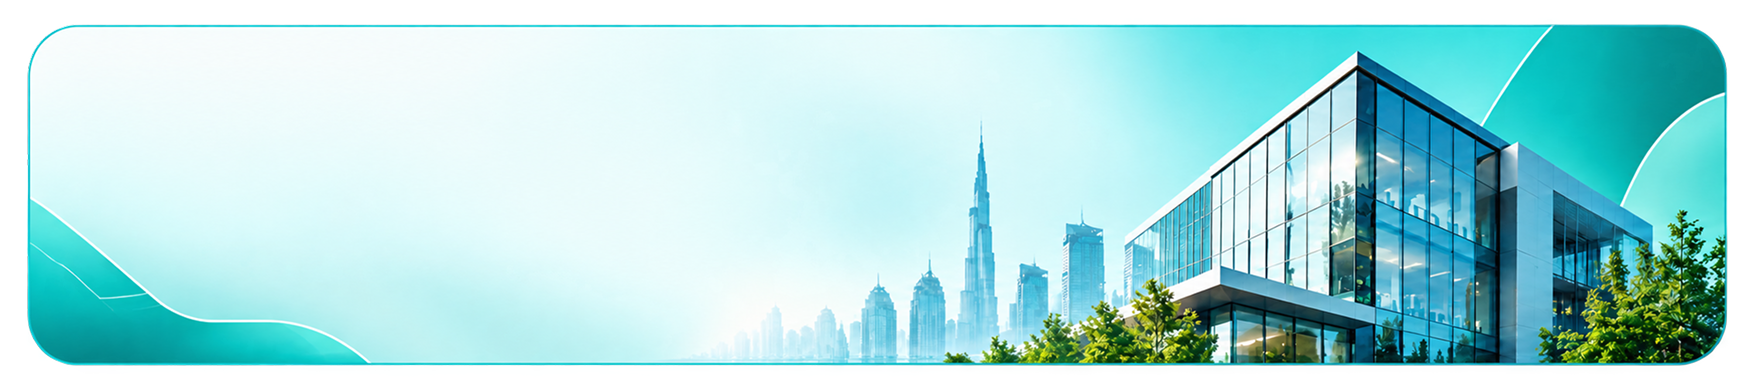
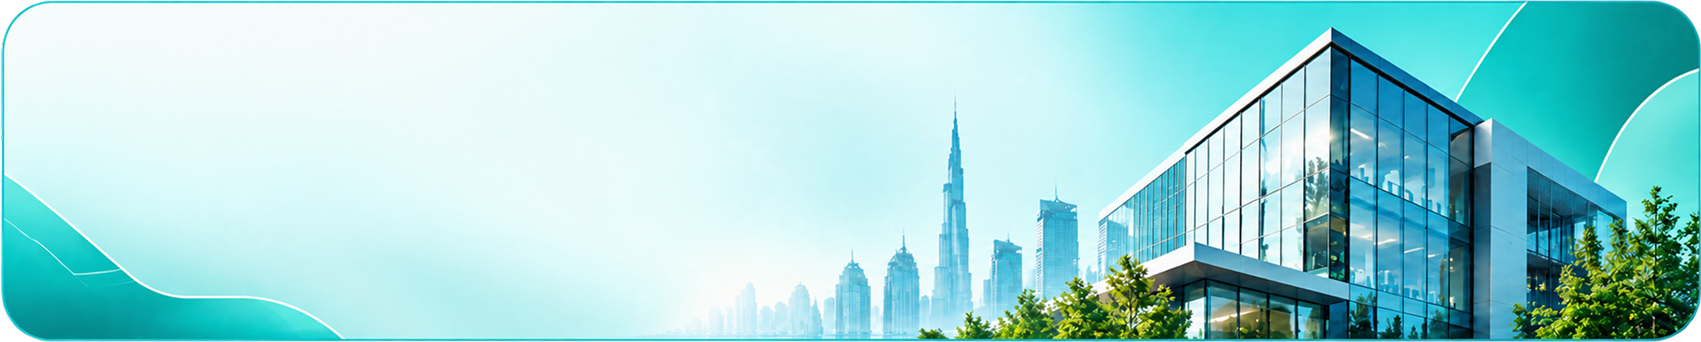
media video

diff --git a/app/media/page.tsx b/app/media/page.tsx
@@ -60,10 +60,11 @@ const PHOTO_CATEGORIES = [
 
 const VIDEO_CATEGORIES = [
   { id: "all", labelEn: "ALL", labelAr: "الكل" },
-  { id: "site", labelEn: "SITE APPLICATION", labelAr: "تنفيذ ميداني" },
-  { id: "flood", labelEn: "WATER FLOOD TEST", labelAr: "اختبار الغمر" },
-  { id: "inspection", labelEn: "QUALITY INSPECTION", labelAr: "فحص الجودة" },
-  { id: "tanking", labelEn: "BASEMENT TANKING", labelAr: "عزل الأساسات" },
+  { id: "construction", labelEn: "CONSTRUCTION", labelAr: "الإنشاءات" },
+  { id: "industrial", labelEn: "INDUSTRIAL", labelAr: "الصناعي" },
+  { id: "hospitality", labelEn: "HOSPITALITY", labelAr: "الضيافة" },
+  { id: "commercial", labelEn: "COMMERCIAL", labelAr: "التجاري" },
+  { id: "infrastructure", labelEn: "INFRASTRUCTURE", labelAr: "البنية التحتية" },
 ];
 
 const PHOTO_CAT_MAP = [
@@ -75,10 +76,11 @@ const PHOTO_CAT_MAP = [
 ];
 
 const VIDEO_CAT_MAP = [
-  { key: "site", labelEn: "Site Application", labelAr: "تنفيذ ميداني" },
-  { key: "flood", labelEn: "Water Flood Test", labelAr: "اختبار الغمر المائي" },
-  { key: "inspection", labelEn: "Quality Inspection", labelAr: "فحص الجودة" },
-  { key: "tanking", labelEn: "Basement Tanking", labelAr: "عزل الأساسات" },
+  { key: "construction", labelEn: "Construction", labelAr: "الإنشاءات" },
+  { key: "industrial", labelEn: "Industrial", labelAr: "الصناعي" },
+  { key: "hospitality", labelEn: "Hospitality", labelAr: "الضيافة" },
+  { key: "commercial", labelEn: "Commercial", labelAr: "التجاري" },
+  { key: "infrastructure", labelEn: "Infrastructure", labelAr: "البنية التحتية" },
 ];
 
 const LOCATIONS = [
@@ -91,7 +93,7 @@ const LOCATIONS = [
 ];
 
 const PHOTOS_PER_PAGE = 12;
-const VIDEOS_PER_PAGE = 8;
+const VIDEOS_PER_PAGE = 12;
 
 export default function MediaPage() {
   const { isArabic } = useLanguage();
@@ -105,7 +107,7 @@ export default function MediaPage() {
   const [visiblePhotoCount, setVisiblePhotoCount] = useState<number>(12);
 
   const [selectedVideoCategory, setSelectedVideoCategory] = useState<string>("all");
-  const [visibleVideoCount, setVisibleVideoCount] = useState<number>(8);
+  const [visibleVideoCount, setVisibleVideoCount] = useState<number>(12);
   const [currentVideoPage, setCurrentVideoPage] = useState<number>(1);
 
   // Modals
@@ -135,7 +137,7 @@ export default function MediaPage() {
         });
 
         const mappedVideos: VideoItem[] = videos.map((src, i) => {
-          const cat = VIDEO_CAT_MAP[i % VIDEO_CAT_MAP.length];
+          const cat = PHOTO_CAT_MAP[i % PHOTO_CAT_MAP.length];
           return {
             id: 1 + i,
             type: "video",
@@ -147,8 +149,8 @@ export default function MediaPage() {
             titleEn: "Project Name",
             titleAr: "اسم المشروع",
             duration: "0:45",
-            locationEn: "Dubai, UAE",
-            locationAr: "دبي، الإمارات",
+            locationEn: "Commercial",
+            locationAr: "تجاري",
           };
         });
 
@@ -174,14 +176,9 @@ export default function MediaPage() {
     return videoItems.filter((v) => v.category === selectedVideoCategory);
   }, [videoItems, selectedVideoCategory]);
 
-  const totalVideoPages = useMemo(() => {
-    return Math.max(1, Math.ceil(filteredVideos.length / VIDEOS_PER_PAGE));
-  }, [filteredVideos]);
-
-  const paginatedVideos = useMemo(() => {
-    const start = (currentVideoPage - 1) * VIDEOS_PER_PAGE;
-    return filteredVideos.slice(start, start + VIDEOS_PER_PAGE);
-  }, [filteredVideos, currentVideoPage]);
+  const displayedVideos = useMemo(() => {
+    return filteredVideos.slice(0, visibleVideoCount);
+  }, [filteredVideos, visibleVideoCount]);
 
   // ── Lightbox Navigation ──────────────────────────────────────
   const handleOpenPhoto = (photo: PhotoItem) => {
@@ -451,71 +448,84 @@ export default function MediaPage() {
 
       {/* ══════════════════════════════════════════════════════════════
           3. SECTION: PROJECT STORIES IN MOTION (VIDEO GALLERY)
+          (Exact match to design screenshot)
       ══════════════════════════════════════════════════════════════ */}
-      <section className="relative w-full py-16 sm:py-20 lg:py-24 bg-white border-t border-slate-100">
+      <section className="relative w-full py-14 sm:py-16 md:py-20 bg-white border-t border-slate-100">
         <div className="max-w-[1360px] mx-auto px-4 sm:px-6 lg:px-8 xl:px-12 w-full">
-          {/* Section Header */}
-          <div className="text-center max-w-3xl mx-auto mb-10 sm:mb-12">
-            <div className="inline-flex items-center justify-center gap-3 mb-2.5">
-              <span className="inline-block h-[2px] w-6 sm:w-8 bg-[#00c4b4] rounded-full" />
-              <span className="text-xs sm:text-sm font-extrabold tracking-[0.2em] uppercase text-[#00c4b4]">
-                {isArabic ? "فيديوهات المشاريع" : "PROJECT STORIES"}
+          {/* Section Header (Left-Aligned as per design) */}
+          <div className="max-w-3xl mb-8 sm:mb-10 text-left rtl:text-right">
+            {/* Tagline: — VIDEO GALLERY */}
+            <div className="flex items-center gap-2 mb-2 sm:mb-2.5">
+              <span className="w-5 sm:w-6 h-[2px] bg-[#00c4b4] inline-block" />
+              <span className="text-[11px] sm:text-xs font-black tracking-[0.2em] uppercase text-[#00c4b4]">
+                {isArabic ? "معرض الفيديو" : "VIDEO GALLERY"}
               </span>
-              <span className="inline-block h-[2px] w-6 sm:w-8 bg-[#00c4b4] rounded-full" />
             </div>
 
-            <h2 className="text-3xl sm:text-4xl md:text-[44px] font-black text-[#0B1C24] tracking-tight leading-[1.15]">
+            {/* Title: Project Stories In Motion */}
+            <h2 className="text-3xl sm:text-4xl md:text-[46px] font-black text-[#0B1C24] tracking-tight leading-[1.14]">
               {isArabic ? (
                 <>
                   قصص المشاريع <span className="text-[#00c4b4]">بالفيديو</span>
                 </>
               ) : (
                 <>
-                  Project Stories in <span className="text-[#00c4b4]">Motion</span>
+                  Project Stories In <span className="text-[#00c4b4]">Motion</span>
                 </>
               )}
             </h2>
 
-            <p className="mt-3 text-stone-600 text-xs sm:text-sm md:text-base max-w-xl mx-auto leading-relaxed">
+            {/* Subtitle exact text from design */}
+            <p className="mt-3 text-xs sm:text-sm md:text-[15px] text-stone-600 max-w-2xl leading-relaxed">
               {isArabic
-                ? "شاهد فرق العمل الهندسية أثناء تطبيق أنظمة العزل المعتمدة، اختبارات الغمر بالمياه، والفحص الدقيق في المواقع."
-                : "Watch our site engineering teams apply certified systems and conduct quality water flood tests in real-time."}
+                ? "استكشف مشاريعنا المكتملة واكتشف جودة التنفيذ والخبرة الهندسية وحلول العزل المائي المتميزة التي يقدمها فريقنا."
+                : "Explore our completed projects and discover the quality workmanship, expertise, and waterproofing solutions delivered by our team."}
             </p>
           </div>
 
-          {/* Video Category Filter Pills */}
-          <div className="flex items-center justify-center mb-10 overflow-x-auto pb-2 no-scrollbar">
-            <div className="inline-flex items-center gap-2 sm:gap-2.5 p-1.5 rounded-full bg-white border border-slate-200/90 shadow-sm">
-              {VIDEO_CATEGORIES.map((cat) => {
-                const isActive = selectedVideoCategory === cat.id;
-                return (
-                  <button
-                    key={cat.id}
-                    onClick={() => {
-                      setSelectedVideoCategory(cat.id);
-                      setCurrentVideoPage(1);
-                    }}
-                    className={`px-4 sm:px-5 py-2 rounded-full text-xs sm:text-sm font-bold tracking-wide transition-all duration-300 cursor-pointer whitespace-nowrap ${
-                      isActive
-                        ? "bg-[#00c4b4] text-white shadow-md shadow-[#00c4b4]/30 scale-100"
-                        : "text-slate-700 hover:text-[#00c4b4] hover:bg-slate-50"
-                    }`}
-                  >
-                    {isArabic ? cat.labelAr : cat.labelEn}
-                  </button>
-                );
-              })}
-            </div>
+          {/* Category Filter Pills (Left-Aligned as per design) */}
+          <div className="flex items-center gap-2.5 sm:gap-3 mb-10 overflow-x-auto pb-2 no-scrollbar">
+            {VIDEO_CATEGORIES.map((cat) => {
+              const isActive = selectedVideoCategory === cat.id;
+              return (
+                <button
+                  key={cat.id}
+                  onClick={() => {
+                    setSelectedVideoCategory(cat.id);
+                    setVisibleVideoCount(12);
+                  }}
+                  className={`px-6 py-2.5 rounded-full text-xs font-bold tracking-wider uppercase transition-all duration-200 cursor-pointer whitespace-nowrap ${
+                    isActive
+                      ? "bg-[#00a89a] text-white shadow-md shadow-[#00a89a]/30 scale-100"
+                      : "bg-[#EEF8F8] text-[#1E3A47] hover:text-[#00a89a] border border-[#d6eeee]/70 shadow-xs hover:border-[#00a89a]"
+                  }`}
+                >
+                  {isArabic ? cat.labelAr : cat.labelEn}
+                </button>
+              );
+            })}
           </div>
 
-          {/* 4-Column Video Grid with Centered Play Buttons */}
-          {!loading && paginatedVideos.length > 0 && (
+          {/* Loading Skeleton */}
+          {loading && (
             <div className="grid grid-cols-1 sm:grid-cols-2 md:grid-cols-3 lg:grid-cols-4 gap-5 sm:gap-6">
-              {paginatedVideos.map((video) => (
+              {Array.from({ length: 12 }).map((_, i) => (
+                <div
+                  key={i}
+                  className="aspect-[4/3] rounded-2xl bg-slate-100 animate-pulse border border-slate-200/60"
+                />
+              ))}
+            </div>
+          )}
+
+          {/* 4-Column Video Grid (Matching Reference Card Layout Exactly) */}
+          {!loading && displayedVideos.length > 0 && (
+            <div className="grid grid-cols-1 sm:grid-cols-2 md:grid-cols-3 lg:grid-cols-4 gap-5 sm:gap-6">
+              {displayedVideos.map((video) => (
                 <div
                   key={video.id}
                   onClick={() => setActiveVideo(video)}
-                  className="group relative rounded-2xl overflow-hidden aspect-[16/10] bg-black border border-slate-200/70 shadow-sm hover:shadow-2xl hover:-translate-y-1 transition-all duration-300 cursor-pointer"
+                  className="group relative rounded-2xl overflow-hidden aspect-[4/3] bg-slate-900 border border-slate-200/60 shadow-sm hover:shadow-xl hover:-translate-y-1 transition-all duration-300 cursor-pointer"
                 >
                   {/* HTML5 video frame preview */}
                   <video
@@ -526,30 +536,30 @@ export default function MediaPage() {
                     className="w-full h-full object-cover transition-transform duration-700 ease-out group-hover:scale-108"
                   />
 
-                  {/* Dark gradient overlay */}
-                  <div className="absolute inset-0 bg-gradient-to-t from-black/85 via-black/35 to-black/20 group-hover:via-black/25 transition-all" />
+                  {/* Gradient Overlay for bottom text visibility */}
+                  <div className="absolute inset-0 bg-gradient-to-t from-black/85 via-black/25 to-transparent opacity-90 group-hover:opacity-100 transition-opacity" />
 
-                  {/* Centered Glowing Teal Play Button */}
+                  {/* Center Sleek Circular Play Button (Matching Reference Card #2 & #7) */}
                   <div className="absolute inset-0 flex items-center justify-center pointer-events-none">
-                    <div className="w-13 h-13 sm:w-14 sm:h-14 rounded-full bg-[#00c4b4] text-white flex items-center justify-center shadow-[0_4px_24px_rgba(0,196,180,0.6)] group-hover:scale-115 group-hover:bg-[#00DDCF] transition-all duration-300 ring-4 ring-white/30">
-                      <Play className="w-5 h-5 fill-white ml-0.5" />
+                    <div className="w-11 h-11 rounded-full bg-black/45 backdrop-blur-md border border-white/40 text-white flex items-center justify-center shadow-lg group-hover:scale-115 group-hover:bg-[#00a89a] group-hover:border-[#00a89a] transition-all duration-300">
+                      <Play className="w-4 h-4 fill-white ml-0.5" />
                     </div>
                   </div>
 
-                  {/* Bottom Video Meta Bar */}
-                  <div className="absolute bottom-0 inset-x-0 p-4 z-10 text-white">
-                    <div className="flex items-center gap-1.5 mb-1">
-                      <Film className="w-3 h-3 text-[#00DDCF]" />
-                      <span className="text-[11px] font-bold text-[#00DDCF] tracking-wide uppercase">
-                        {isArabic ? video.categoryLabelAr : video.categoryLabelEn}
-                      </span>
+                  {/* Bottom-Left Meta Badge (Square Icon Box + Project Name + Commercial) */}
+                  <div className="absolute bottom-0 inset-x-0 p-3.5 sm:p-4 z-10 flex items-center gap-2.5 text-white">
+                    {/* Translucent Square Icon Box */}
+                    <div className="w-7 h-7 sm:w-8 sm:h-8 rounded-lg bg-black/50 backdrop-blur-md border border-white/20 flex items-center justify-center shrink-0 text-white">
+                      <Film className="w-3.5 h-3.5" />
                     </div>
-                    <h3 className="text-sm font-bold text-white line-clamp-1 group-hover:text-[#00DDCF] transition-colors">
-                      {isArabic ? video.titleAr : video.titleEn}
-                    </h3>
-                    <div className="flex items-center gap-1 text-[11px] text-white/70 mt-0.5 line-clamp-1">
-                      <MapPin className="w-3 h-3 text-white/50 shrink-0" />
-                      <span>{isArabic ? video.locationAr : video.locationEn}</span>
+                    {/* Project Title & Location */}
+                    <div className="leading-tight min-w-0">
+                      <h4 className="text-xs sm:text-[13px] font-bold text-white truncate group-hover:text-[#00DDCF] transition-colors">
+                        {isArabic ? video.titleAr : video.titleEn}
+                      </h4>
+                      <p className="text-[10px] sm:text-[11px] text-white/75 truncate mt-0.5">
+                        {isArabic ? video.locationAr : video.locationEn}
+                      </p>
                     </div>
                   </div>
                 </div>
@@ -558,7 +568,7 @@ export default function MediaPage() {
           )}
 
           {/* Empty State */}
-          {!loading && paginatedVideos.length === 0 && (
+          {!loading && displayedVideos.length === 0 && (
             <div className="text-center py-16 bg-slate-50 rounded-3xl border border-slate-200/60 max-w-md mx-auto">
               <Film className="w-12 h-12 text-slate-300 mx-auto mb-3" />
               <p className="text-base font-bold text-slate-700">
@@ -567,43 +577,15 @@ export default function MediaPage() {
             </div>
           )}
 
-          {/* Video Pagination Controls */}
-          {totalVideoPages > 1 && (
-            <div className="flex items-center justify-center gap-2 mt-10 sm:mt-12">
+          {/* Load More Button (Matching Reference Design: Load More ↓) */}
+          {!loading && visibleVideoCount < filteredVideos.length && (
+            <div className="flex items-center justify-center mt-12 sm:mt-14">
               <button
-                onClick={() => setCurrentVideoPage((p) => Math.max(1, p - 1))}
-                disabled={currentVideoPage === 1}
-                className="w-9 h-9 rounded-full border border-slate-200 bg-white text-slate-600 hover:border-[#00c4b4] hover:text-[#00c4b4] flex items-center justify-center transition-all disabled:opacity-40 disabled:cursor-not-allowed cursor-pointer shadow-xs"
-                aria-label="Previous Page"
+                onClick={() => setVisibleVideoCount((prev) => prev + 8)}
+                className="text-xs sm:text-sm font-bold text-[#00a89a] hover:text-[#008f83] tracking-wide inline-flex items-center gap-1.5 transition-colors cursor-pointer group py-2 px-5 rounded-full hover:bg-slate-100 shadow-xs"
               >
-                <ChevronLeft className={`w-4 h-4 ${isArabic ? "rotate-180" : ""}`} />
-              </button>
-
-              {Array.from({ length: totalVideoPages }).map((_, i) => {
-                const pageNum = i + 1;
-                const isCurrent = pageNum === currentVideoPage;
-                return (
-                  <button
-                    key={pageNum}
-                    onClick={() => setCurrentVideoPage(pageNum)}
-                    className={`w-9 h-9 rounded-full text-xs sm:text-sm font-bold transition-all cursor-pointer ${
-                      isCurrent
-                        ? "bg-[#00c4b4] text-white shadow-md shadow-[#00c4b4]/30"
-                        : "bg-white border border-slate-200 text-slate-600 hover:border-[#00c4b4] hover:text-[#00c4b4]"
-                    }`}
-                  >
-                    {pageNum}
-                  </button>
-                );
-              })}
-
-              <button
-                onClick={() => setCurrentVideoPage((p) => Math.min(totalVideoPages, p + 1))}
-                disabled={currentVideoPage === totalVideoPages}
-                className="w-9 h-9 rounded-full border border-slate-200 bg-white text-slate-600 hover:border-[#00c4b4] hover:text-[#00c4b4] flex items-center justify-center transition-all disabled:opacity-40 disabled:cursor-not-allowed cursor-pointer shadow-xs"
-                aria-label="Next Page"
-              >
-                <ChevronRight className={`w-4 h-4 ${isArabic ? "rotate-180" : ""}`} />
+                <span>{isArabic ? "تحميل المزيد" : "Load More"}</span>
+                <span className="text-base transition-transform group-hover:translate-y-0.5">↓</span>
               </button>
             </div>
           )}
